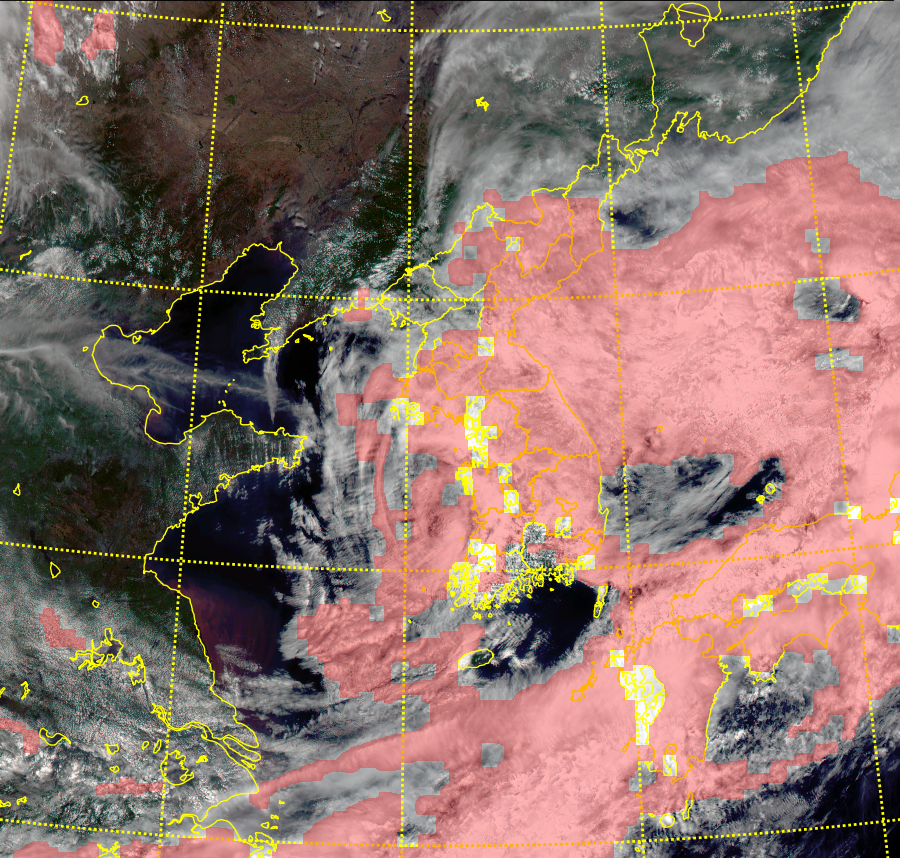
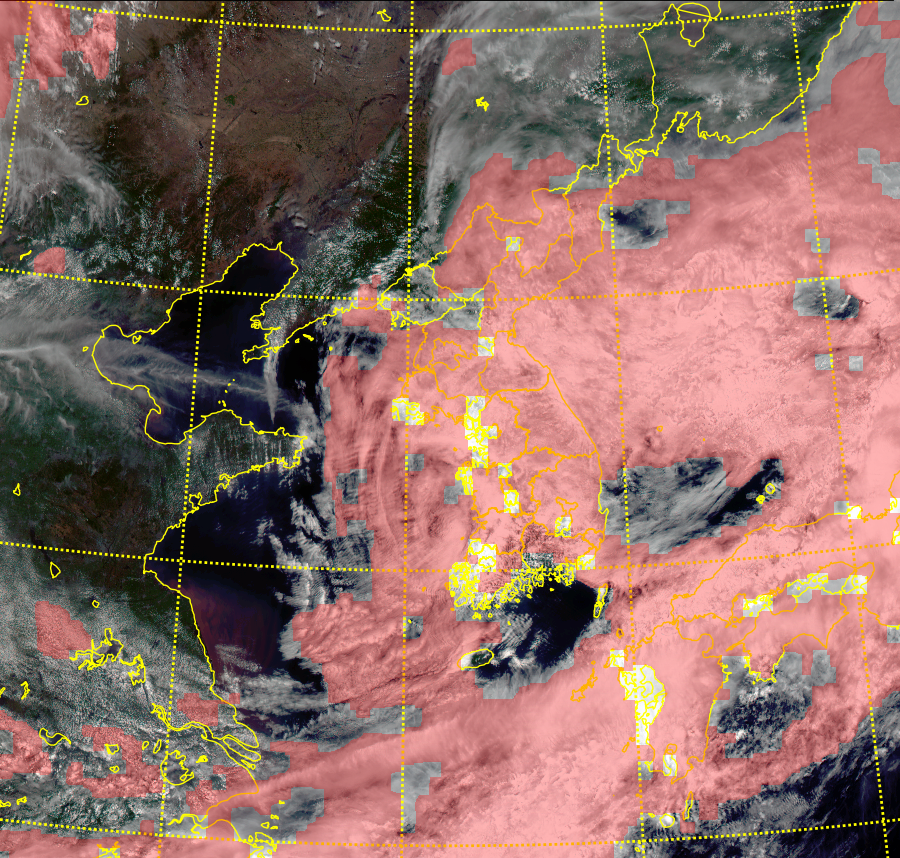
feat: add adaptive threshold, tune prior params, expand experiment configs

diff --git a/experiment.py b/experiment.py
@@ -10,44 +10,29 @@ from evaluation import load_ground_truth, calculate_iou, save_ground_truth_image
 # 새로운 조합을 추가하려면 EXPERIMENT_CONFIGS에 항목 추가
 # =========================================================
 EXPERIMENT_CONFIGS: list[dict] = [
+
+    # =====================================================
+    # Baseline: prior 없음 + region_grow 없음 (순수 threshold)
+    # =====================================================
     {
-        "name": "no_prior",
+        "name": "baseline (no prior, no rg)",
+        "config": {
+            **DEFAULT_CONFIG,
+            "rgb_prior":  {**DEFAULT_CONFIG["rgb_prior"],  "enabled": False},
+            "hsv_prior":  {**DEFAULT_CONFIG["hsv_prior"],  "enabled": False},
+            "region_grow": {**DEFAULT_CONFIG["region_grow"], "enabled": False},
+        },
+    },
+
+    # =====================================================
+    # Prior 적용 여부 비교
+    # =====================================================
+    {
+        "name": "no_prior (rg active)",
         "config": {
             **DEFAULT_CONFIG,
             "rgb_prior": {**DEFAULT_CONFIG["rgb_prior"], "enabled": False},
             "hsv_prior": {**DEFAULT_CONFIG["hsv_prior"], "enabled": False},
-        },
-    },
-    {
-        "name": "rgb_prior only",
-        "config": {
-            **DEFAULT_CONFIG,
-            "hsv_prior": {**DEFAULT_CONFIG["hsv_prior"], "enabled": False},
-        },
-    },
-    {
-        "name": "hsv_prior only",
-        "config": {
-            **DEFAULT_CONFIG,
-            "rgb_prior": {**DEFAULT_CONFIG["rgb_prior"], "enabled": False},
-        },
-    },
-    {
-        "name": "both_prior (default s<60)",
-        "config": DEFAULT_CONFIG,
-    },
-    {
-        "name": "both_prior (tight   s<40)",
-        "config": {
-            **DEFAULT_CONFIG,
-            "hsv_prior": {**DEFAULT_CONFIG["hsv_prior"], "s_max": 40},
-        },
-    },
-    {
-        "name": "both_prior (loose   s<80)",
-        "config": {
-            **DEFAULT_CONFIG,
-            "hsv_prior": {**DEFAULT_CONFIG["hsv_prior"], "s_max": 80},
         },
     },
     {
@@ -57,7 +42,105 @@ EXPERIMENT_CONFIGS: list[dict] = [
             "region_grow": {**DEFAULT_CONFIG["region_grow"], "enabled": False},
         },
     },
+    {
+        "name": "both_prior + region_grow",
+        "config": DEFAULT_CONFIG,
+    },
+
+    # =====================================================
+    # v_min 완화: 좌측 회색빛 나선 구름 검출 향상
+    # 180→150 구간에서 가장 큰 IoU 향상폭 확인됨
+    # =====================================================
+    {
+        "name": "low_vmin (v>90,  relax v>60)",
+        "config": {
+            **DEFAULT_CONFIG,
+            "hsv_prior":   {**DEFAULT_CONFIG["hsv_prior"],   "v_min": 90},
+            "hsv_relaxed": {**DEFAULT_CONFIG["hsv_relaxed"], "v_min": 60},
+        },
+    },
+
+    # =====================================================
+    # Adaptive Threshold: 국소 영역 기준 임계값
+    # Otsu 단독보다 both(otsu+adaptive) OR 조합이 유효함 확인
+    # =====================================================
+    {
+        "name": "both_thresh (otsu+adaptive)",
+        "config": {
+            **DEFAULT_CONFIG,
+            "threshold": {**DEFAULT_CONFIG["threshold"], "method": "both", "adaptive_block": 51, "adaptive_c": -10},
+        },
+    },
+
+    # =====================================================
+    # 최종 조합: both_thresh + 가장 완화된 v_min
+    # =====================================================
+    {
+        "name": "best_combo (both_thresh + v>90)",
+        "config": {
+            **DEFAULT_CONFIG,
+            "threshold":   {**DEFAULT_CONFIG["threshold"],   "method": "both", "adaptive_block": 51, "adaptive_c": -10},
+            "hsv_prior":   {**DEFAULT_CONFIG["hsv_prior"],   "v_min": 90},
+            "hsv_relaxed": {**DEFAULT_CONFIG["hsv_relaxed"], "v_min": 60},
+        },
+    },
+
+    # =====================================================
+    # 낮은 threshold + prior 필터링
+    # 애초에 넓게 잡고 prior로 깎아내는 원래 의도 구조
+    # Otsu(자동)보다 낮은 고정값으로 더 많은 후보 확보
+    # =====================================================
+    {
+        "name": "low_thresh (t=100) + both_prior",
+        "config": {
+            **DEFAULT_CONFIG,
+            "threshold": {**DEFAULT_CONFIG["threshold"], "value": 100},
+        },
+    },
+    {
+        "name": "low_thresh (t=80)  + both_prior",
+        "config": {
+            **DEFAULT_CONFIG,
+            "threshold": {**DEFAULT_CONFIG["threshold"], "value": 80},
+        },
+    },
+    {
+        "name": "low_thresh (t=60)  + both_prior",
+        "config": {
+            **DEFAULT_CONFIG,
+            "threshold": {**DEFAULT_CONFIG["threshold"], "value": 60},
+        },
+    },
+    {
+        "name": "low_thresh (t=60)  + no_prior",
+        "config": {
+            **DEFAULT_CONFIG,
+            "threshold":  {**DEFAULT_CONFIG["threshold"],  "value": 60},
+            "rgb_prior":  {**DEFAULT_CONFIG["rgb_prior"],  "enabled": False},
+            "hsv_prior":  {**DEFAULT_CONFIG["hsv_prior"],  "enabled": False},
+            "region_grow": {**DEFAULT_CONFIG["region_grow"], "enabled": False},
+        },
+    },
 ]
+
+
+# =====================================================
+# 탐색 완료 / 주석 처리된 실험들
+# =====================================================
+# ARCHIVED_CONFIGS = [
+#     {"name": "rgb_prior only", ...},
+#     {"name": "hsv_prior only", ...},
+#     {"name": "both_prior (tight s<40)", ...},
+#     {"name": "both_prior (loose s<80)", ...},
+#     {"name": "low_vmin (v>150)", ...},
+#     {"name": "low_vmin (v>130)", ...},
+#     {"name": "low_vmin (v>110)", ...},
+#     {"name": "tight_s+low_v (s<40, v>130)", ...},
+#     {"name": "tight_s+low_v (s<30, v>130)", ...},
+#     {"name": "tight_s+low_v (s<40, v>110)", ...},
+#     {"name": "adaptive_thresh (block=51)", ...},
+#     {"name": "adaptive_thresh (block=31)", ...},
+# ]
 
 
 def compare_configs(

diff --git a/segmentation.py b/segmentation.py
@@ -15,17 +15,39 @@ import numpy as np
 def apply_threshold(
     equalized: np.ndarray,
     value: int = 0,
+    method: str = "otsu",
+    adaptive_block: int = 51,
+    adaptive_c: int = -10,
 ) -> np.ndarray:
     # =====================================================
     # Threshold
     #
-    # value=0 이면 Otsu (자동 임계값)
-    # 사진마다 조명이 달라도 안정적으로 동작
+    # method="otsu"     : 전역 자동 임계값 (value=0 시 Otsu)
+    # method="adaptive" : 국소 영역 기준 임계값
+    #                     → 어두운 배경 위 회색 구름도 검출 가능
+    # method="both"     : 두 결과 OR → 상호 보완
+    #
+    # adaptive_block : 국소 영역 크기 (홀수)
+    # adaptive_c     : 음수일수록 local_mean보다 밝은 픽셀만 통과
     # =====================================================
+    if method == "adaptive":
+        return cv2.adaptiveThreshold(
+            equalized, 255,
+            cv2.ADAPTIVE_THRESH_GAUSSIAN_C,
+            cv2.THRESH_BINARY,
+            adaptive_block,
+            adaptive_c,
+        )
+
+    if method == "both":
+        otsu     = apply_threshold(equalized, value, "otsu")
+        adaptive = apply_threshold(equalized, 0, "adaptive", adaptive_block, adaptive_c)
+        return cv2.bitwise_or(otsu, adaptive)
+
+    # method="otsu" 또는 고정값
     flags = cv2.THRESH_BINARY
     if value == 0:
         flags |= cv2.THRESH_OTSU
-
     _, thresh = cv2.threshold(equalized, value, 255, flags)
     return thresh
 

diff --git a/pipeline.py b/pipeline.py
@@ -13,12 +13,12 @@ from postprocessing import morphological_clean, filter_components
 DEFAULT_CONFIG: dict = {
     "bilateral":   {"d": 9, "sigma_color": 75.0, "sigma_space": 75.0},
     "clahe":       {"clip_limit": 2.0, "tile_grid": (8, 8)},
-    "threshold":   {"value": 0},
+    "threshold":   {"value": 0, "method": "otsu", "adaptive_block": 51, "adaptive_c": -10},
     "canny":       {"low": 100, "high": 200},
     "rgb_prior":   {"enabled": True, "brightness_min": 150, "uniformity_max": 20},
-    "hsv_prior":   {"enabled": True, "s_max": 60,  "v_min": 180},
-    # 완화된 조건: seed 주변 중하층 구름 흡수용
-    "hsv_relaxed": {"enabled": True, "s_max": 80,  "v_min": 140},
+    # v_min 실험 결과: 180→150 완화 시 IoU 0.44→0.55 최대 향상폭
+    "hsv_prior":   {"enabled": True, "s_max": 60,  "v_min": 150},
+    "hsv_relaxed": {"enabled": True, "s_max": 80,  "v_min": 120},
     "region_grow": {"enabled": True, "iterations": 3},
     "morphology":  {"kernel_size": 5, "open_iter": 2, "close_iter": 3},
     "min_area":    500,
